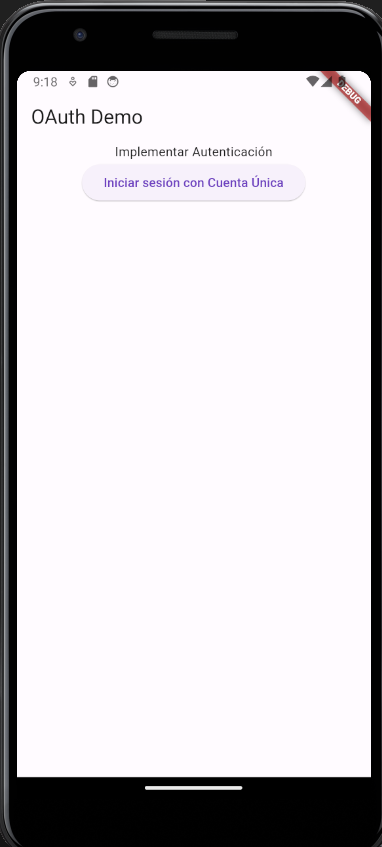
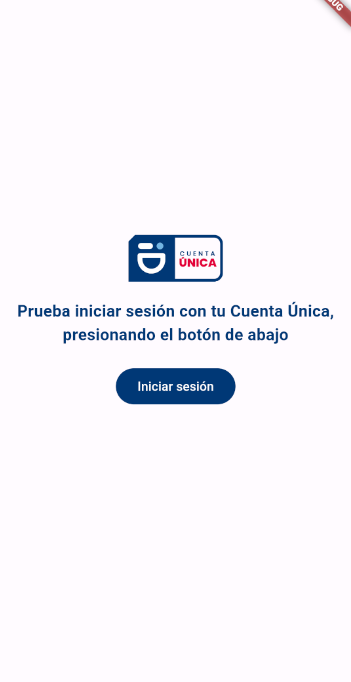
improve ui in flutter demo

Changed region(s): [[0.0, 0.0, 1.0, 1.0]]

diff --git a/docs/projects/cuc/examples/flutter/lib/main.dart b/docs/projects/cuc/examples/flutter/lib/main.dart
@@ -1,20 +1,23 @@
 import 'dart:async';
 import 'dart:convert';
+import 'dart:developer';
+import 'dart:io';
+import 'package:flutter_svg/flutter_svg.dart';
 import 'package:http/http.dart' as http;
 import 'package:app_links/app_links.dart';
 import 'package:flutter/material.dart';
 import 'package:oauth2/oauth2.dart' as oauth2;
 import 'package:url_launcher/url_launcher.dart';
+import 'package:flutter_dotenv/flutter_dotenv.dart';
 
 final authorizationEndpoint =
     Uri.parse('https://cuenta.digital.gob.do/oauth2/auth');
 final tokenEndpoint = Uri.parse('https://cuenta.digital.gob.do/oauth2/token');
-final identifier = 'client_id';
-final secret = 'client_secret';
-final redirectUrl = Uri.parse('redirect_url');
+final identifier = dotenv.env['CLIENT_ID']!;
+final secret = dotenv.env['CLIENT_SECRET'];
+final redirectUrl = Uri.parse(dotenv.env['REDIRECT_URL']!);
 
 Future<oauth2.Client> createClient() async {
-
   // If we don't have OAuth2 credentials yet, we need to get the resource owner
   // to authorize us. We're assuming here that we're a command-line application.
   var grant = oauth2.AuthorizationCodeGrant(
@@ -31,11 +34,12 @@ Future<oauth2.Client> createClient() async {
   // owner has authorized, they'll be redirected to `redirectUrl` with an
   // authorization code. The `redirect` should cause the browser to redirect to
   // another URL which should also have a listener.
-
+  //
+  // `redirect` and `listen` are not shown implemented here. See below for the
+  // details.
   await redirect(authorizationUrl);
   var responseUrl = await listen(redirectUrl);
 
-  
   // Once the user is redirected to `redirectUrl`, pass the query parameters to
   // the AuthorizationCodeGrant. It will validate them and extract the
   // authorization code to create a new Client.
@@ -59,7 +63,8 @@ Future<void> redirect(Uri url) async {
   }
 }
 
-void main() {
+Future main() async {
+  await dotenv.load(fileName: ".env");
   runApp(const MyApp());
 }
 
@@ -82,40 +87,59 @@ class _MyAppState extends State<MyApp> {
         useMaterial3: true,
       ),
       home: Scaffold(
-        appBar: AppBar(
-          title: const Text('OAuth Demo'),
-        ),
         body: Center(
-          child: Column(
-            children: [
-              const Text('Implementar Autenticación'),
-              ElevatedButton(
-                  onPressed: () async {
-                    var client = await createClient();
+          child: Padding(
+            padding: const EdgeInsets.all(16.0),
+            child: Column(
+              mainAxisAlignment: MainAxisAlignment.center,
+              crossAxisAlignment: CrossAxisAlignment.center,
+              children: [
+                SvgPicture.asset("img/logo-cuenta-unica.svg"),
+                SizedBox(
+                  height: 20,
+                ),
+                const Text(
+                  'Prueba iniciar sesión con tu Cuenta Única, presionando el botón de abajo',
+                  textAlign: TextAlign.center,
+                  style: TextStyle(
+                    color: Color(0xFF003876),
+                    fontSize: 18,
+                    fontWeight: FontWeight.bold
+                  ),
+                ),
+                SizedBox(
+                  height: 20,
+                ),
+                FilledButton(
+                    child: const Text("Iniciar sesión"),
+                    onPressed: () async {
+                      var client = await createClient();
+                      inspect(client);
+                      inspect(client.credentials);
 
-                    var headers = {
-                      'Authorization': 'Bearer ${client.credentials.accessToken}',
-                    };
-                    //Get user info by doing an HTTP GET request
-                    final response = await http.get(Uri.parse('https://cuenta.digital.gob.do/userinfo'),
-                        headers: headers);
+                      var headers = {
+                        'Authorization':
+                            'Bearer ${client.credentials.accessToken}',
+                      };
 
-                    if (response.statusCode == 200) {
-                      //Print the response in case it was succesfully retrieved
-                      print(response.body);
-                      setState(() {
-                        name = jsonDecode(response.body)["given_name"];
-                      });
-                    }
-                    else {
-                      //Print the reason phrase in case the request failed
-                      print(response.reasonPhrase);
-                    }
+                      final response = await http.get(
+                          Uri.parse('https://cuenta.digital.gob.do/userinfo'),
+                          headers: headers);
 
-                  },
-                  child: const Text("Iniciar sesión con Cuenta Única")),
-                  Text(name)
-            ],
+                      if (response.statusCode == 200) {
+                        print(response.body);
+                        setState(() {
+                          name = jsonDecode(response.body)["given_name"];
+                        });
+                      } else {
+                        print(response.reasonPhrase);
+                      }
+                    },
+                    style: FilledButton.styleFrom(
+                        backgroundColor: Color(0xFF003876))),
+                Text(name)
+              ],
+            ),
           ),
         ),
       ),
